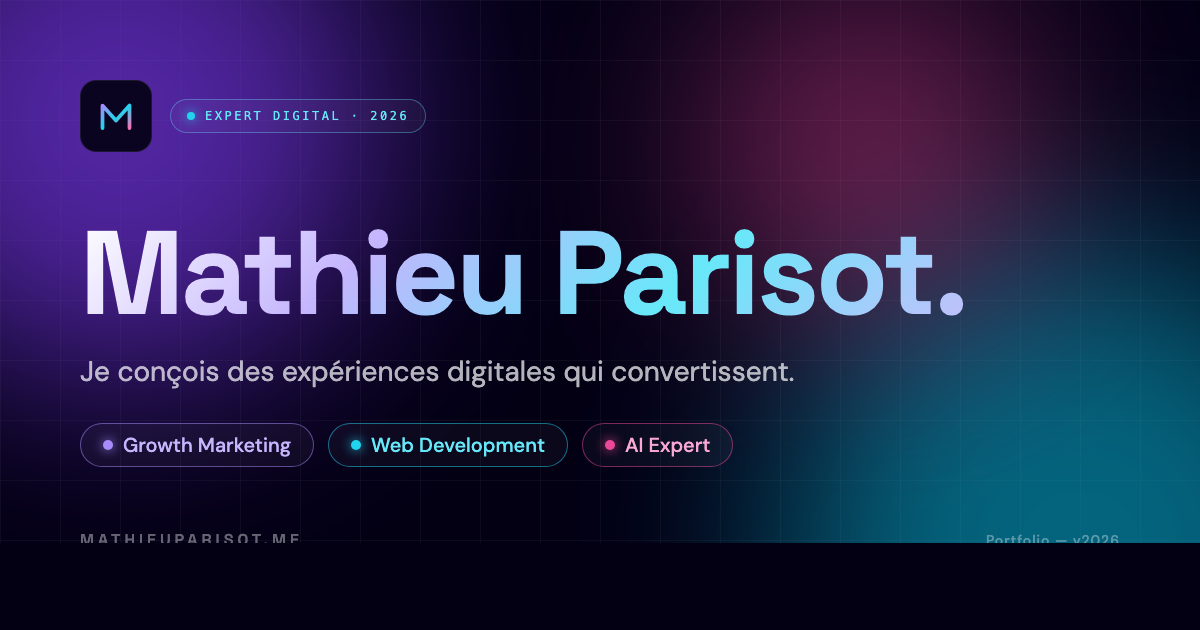
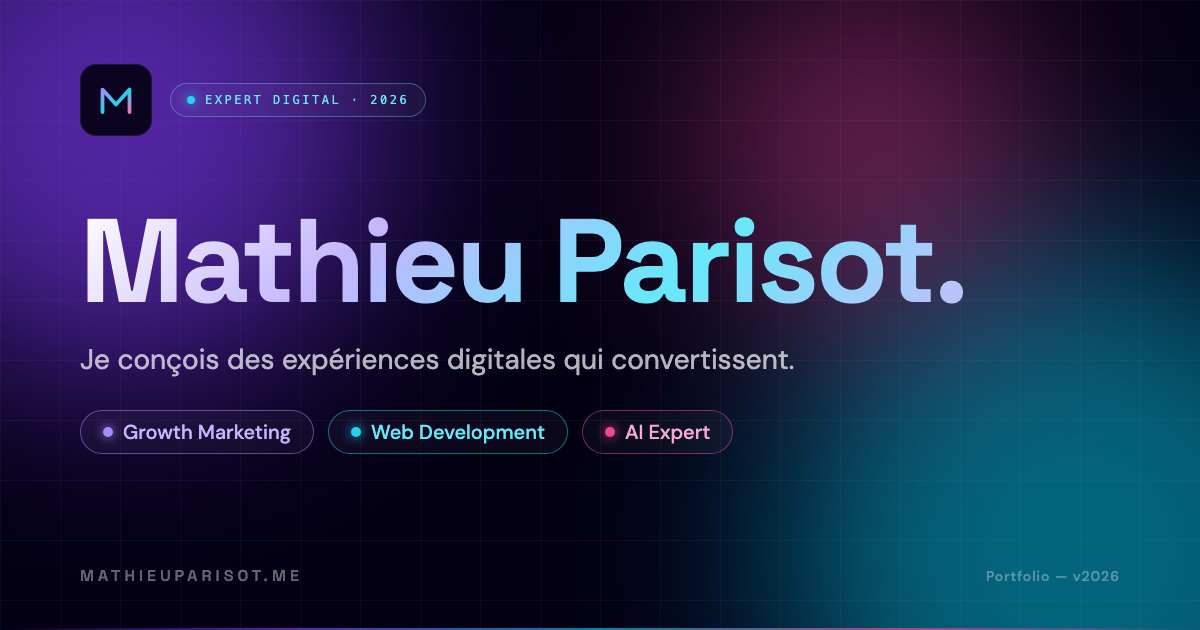
Fix cropped bottom on OG image (Chrome headless font race)
Root cause: Chrome --headless with --virtual-time-budget wasn't
waiting for webfonts to lay out before capturing, so the .bottom
row flashed through as 0-width text. Switched to puppeteer-core
which awaits document.fonts.ready + a 400ms paint buffer; the
domain + version row now renders.

Also repositioned .bottom with position:absolute so its vertical
placement is deterministic regardless of flex distribution.

diff --git a/og-image.html b/og-image.html
@@ -14,7 +14,7 @@
   }
   body {
     position: relative;
-    padding: 80px;
+    padding: 64px 80px 110px 80px;
     display: flex; flex-direction: column; justify-content: space-between;
   }
   .grid {
@@ -85,6 +85,7 @@
   .pill-3 .dot { background: #ec4899; color: #ec4899; }
 
   .bottom {
+    position: absolute; left: 80px; right: 80px; bottom: 44px;
     display: flex; justify-content: space-between; align-items: center;
     font-family: 'Space Grotesk', system-ui, sans-serif;
     font-size: 16px; letter-spacing: 4px; font-weight: 500;
